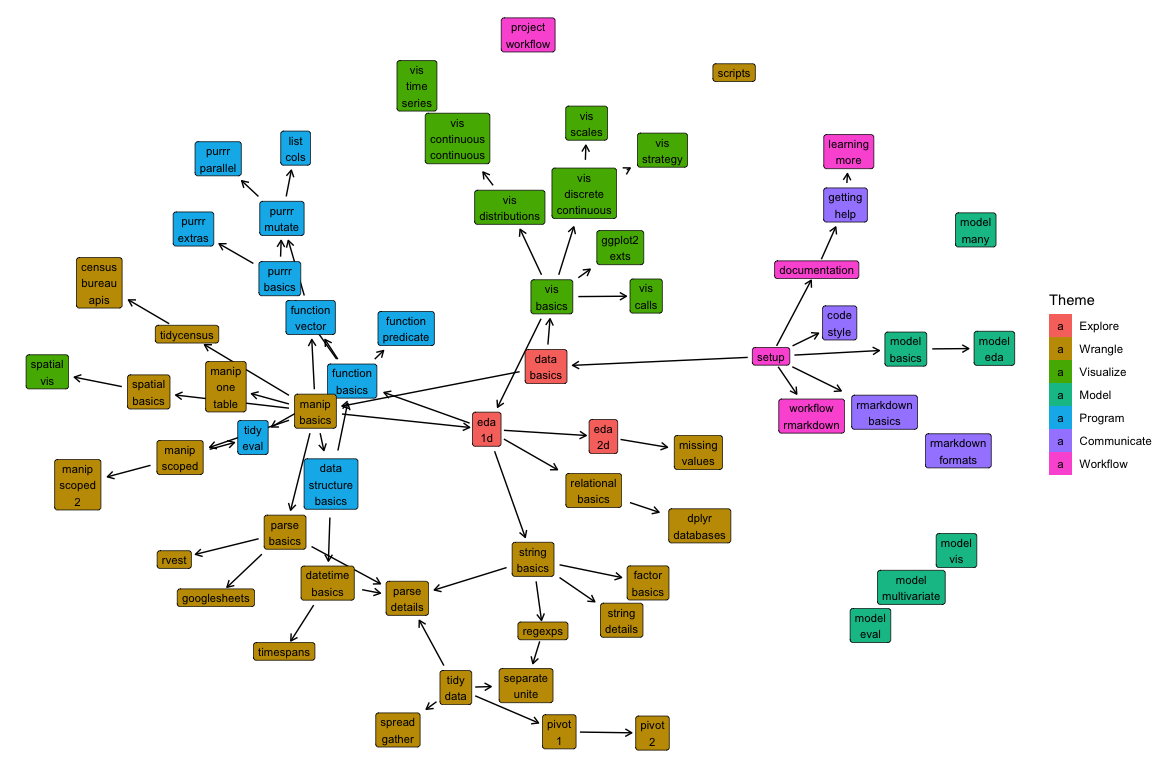
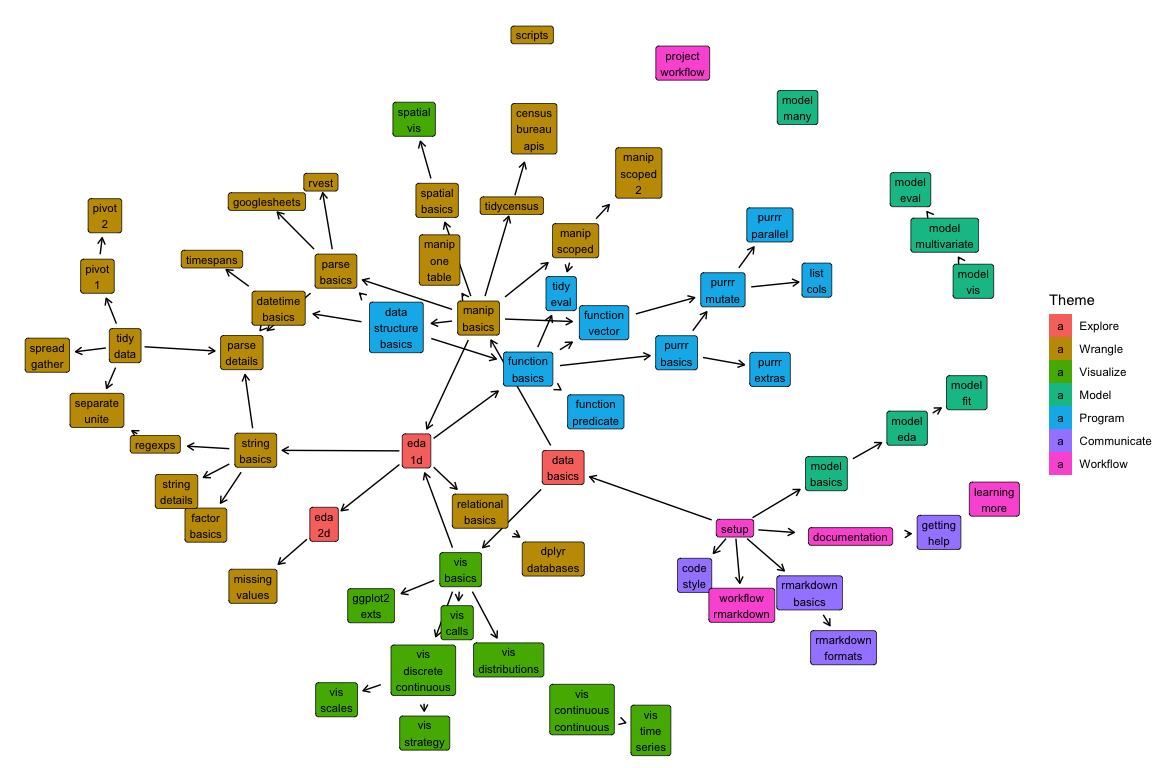
add model-fit unit

Changed region(s): [[0.0, 0.0625, 0.9062, 1.0], [0.4062, 0.0, 0.5, 0.0938], [0.6875, 0.5938, 0.75, 0.6562]]

diff --git a/docs/model-fit.md b/docs/model-fit.md
@@ -1,0 +1,18 @@
+---
+title: Model fitting
+---
+
+<!-- Generated automatically from model-fit.yml. Do not edit by hand -->
+
+# Model fitting <small class='model'>[model]</small>
+<small>(Builds on: [Model EDA](model-eda.md))</small>
+
+You've already learned how to visualize and explore your data in preparation
+for basic modeling. Now, you'll learn how to fit models using a new set
+of packages called tidymodels.
+
+## Readings
+
+  * [Fitting basics](https://dcl-model.stanford.edu/fitting.html) [model-4]
+
+

diff --git a/docs/model-eda.md b/docs/model-eda.md
@@ -5,7 +5,8 @@ title: Model EDA
 <!-- Generated automatically from model-eda.yml. Do not edit by hand -->
 
 # Model EDA <small class='model'>[model]</small>
-<small>(Builds on: [Model basics](model-basics.md))</small>
+<small>(Builds on: [Model basics](model-basics.md))</small>  
+<small>(Leads to: [Model fitting](model-fit.md))</small>
 
 There are an infinite number of models that could approximate your data. In this
 unit, you'll learn how to narrow down your search by using EDA to understand 
